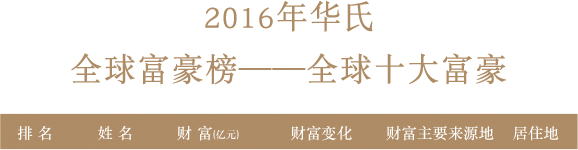
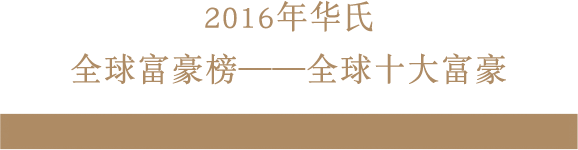
榜单样式

diff --git a/public/css/main.css b/public/css/main.css
@@ -117,14 +117,16 @@ select,input,textarea{font-family:inherit; outline:none;}
 /*榜单*/
 .p3{ display: none;}
 .p3-img1{ width: 578px; height: 150px; background: url("../images/p3-img1.png") no-repeat; position: absolute; left: 31px; top: 41px;}
-.p3-box{ width: 578px; position: absolute; left: 31px; top: 198px;}
+.p3-box{ width: 578px; position: absolute; left: 31px; top: 142px;}
 .myTable tr{ font-size: 19px; color: #a79783; text-align: center;}
 .myTable tr img{ padding: 27px 0 0 8px;}
 .myTable tr td{ line-height: 60px;}
 .myTable .first{ font-size: 22px; color: #ae8c65; text-align: center; font-weight:bold;}
 .myTable .first img{ padding: 28px 0 0 5px;}
 .myTable tr{ border-bottom: 1px dashed #565b62;}
-.myTable tr:nth-child(even){ background-color: rgba(53,60,68,.6);}
+.myTable tr:nth-child(odd){ background-color: rgba(53,60,68,.6);}
+#tableNav{ border:none; background:none;}
+#tableNav td{ font-size:17px; color:#FFF;}
 .p3-piont1{ position: absolute; left:108px; top:-8px; opacity:0;}
 .p3-piont2{ position: absolute; left:108px; top:-8px;}
 .p3-piont3{ position: absolute; left:108px; top:56px; opacity:0;}

diff --git a/resources/views/list.blade.php b/resources/views/list.blade.php
@@ -1,4 +1,12 @@
 <table class="myTable" width="100%">
+    <tr id="tableNav">
+      <td width="12%">排名</td>
+      <td width="22%">姓名</td>
+      <td width="16%">财富(亿元)</td>
+      <td width="16%">财富变化</td>
+      <td width="16%">财富来源</td>
+      <td width="12%">居住地</td>
+    </tr>
     @foreach ($list as $key=>$value)
     <tr @if ($value['isUser'] == true){!! 'class="first"'!!}@endif>
       <td>{{$key+1}}<img src="images/@if ($value['scale'] > 0 ){{ 'up.png' }}@elseif ($value['scale'] < 0 ){{ 'down.png' }}@else{{'equal.png'}}@endif" /></td>
